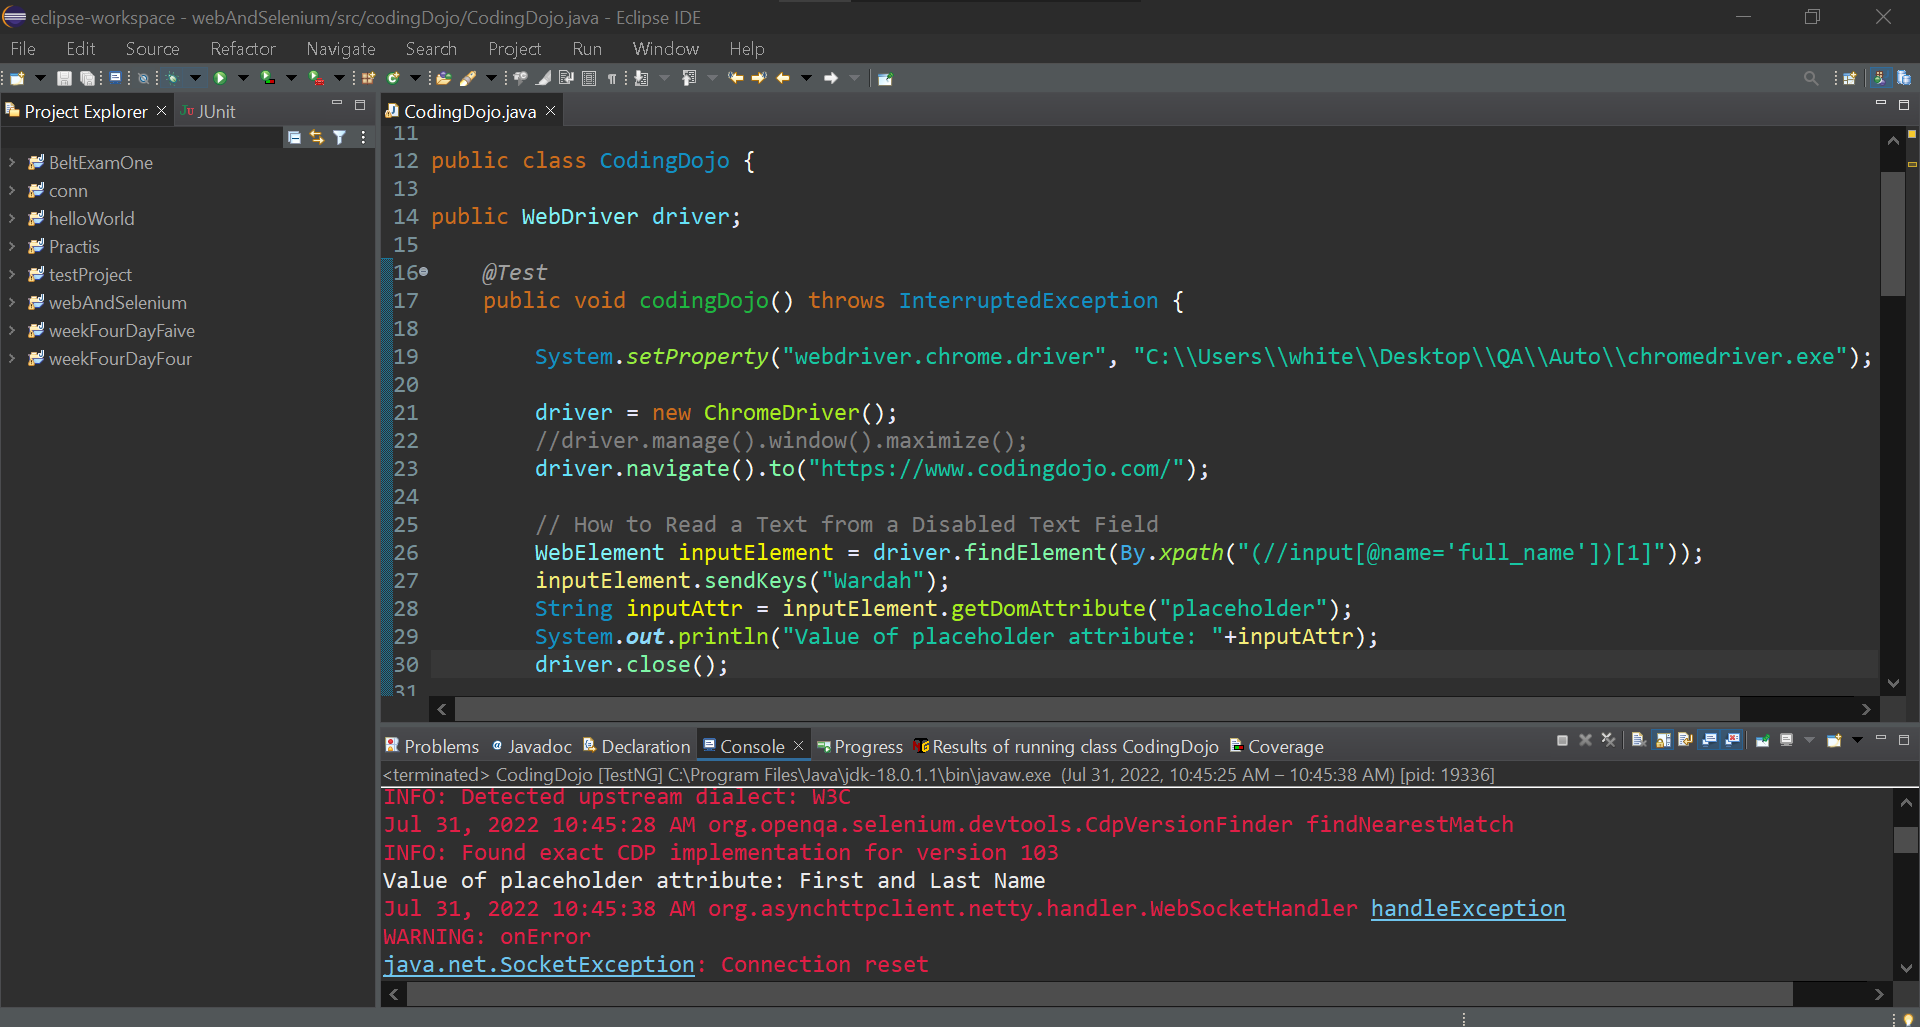
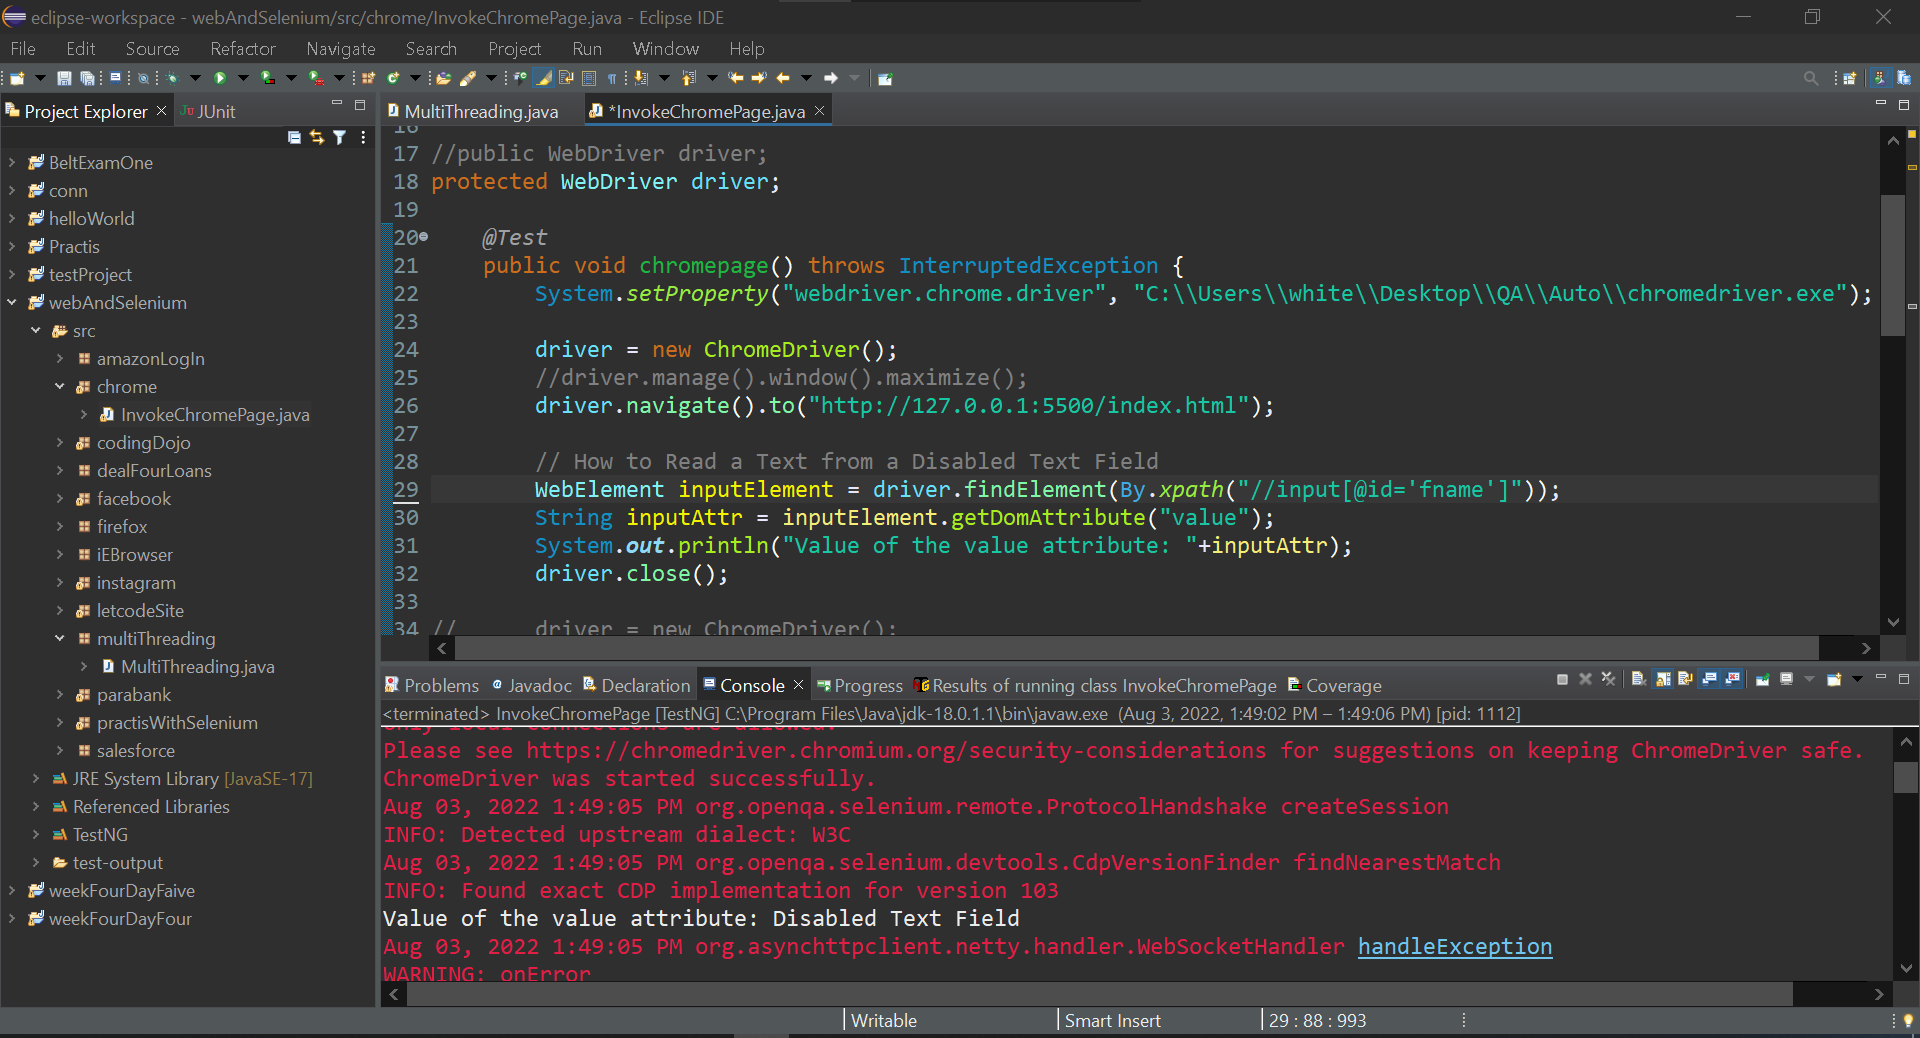
addComments

diff --git a/HowToReadTextFromDisabledTextField/README.md b/HowToReadTextFromDisabledTextField/README.md
@@ -1,6 +1,25 @@
 ### How to Read a Text from a Disabled Text Field
 
 ### Source Code
+
+### HTML File
+```HTML
+<!DOCTYPE html>
+<html>
+    <head>
+        <title>
+            Demo
+        </title>
+    </head>
+    <body>
+        <p id="demo"></p>
+        <input type="text" id="fname" value="Disabled Text Field" disabled>
+        <script src="./main.js"></script>
+    </body>
+</html>
+```
+
+### Java File
 ```Java
 package codingDojo;
 
@@ -24,14 +43,13 @@ public WebDriver driver;
 				
 		driver = new ChromeDriver();
 		//driver.manage().window().maximize();
-		driver.navigate().to("https://www.codingdojo.com/");
+		driver.navigate().to("http://127.0.0.1:5500/index.html");
 		
-		// How to Read a Text from a Text Field
-		// I can't find any disabled Text Field, So I used an enabled text field
-		WebElement inputElement = driver.findElement(By.xpath("(//input[@name='full_name'])[1]"));
-		inputElement.sendKeys("Wardah");
-		String inputAttr = inputElement.getDomAttribute("placeholder");
-		System.out.println("Value of placeholder attribute: "+inputAttr);
+		// How to Read a Text from a Disabled Text Field
+		WebElement inputElement = driver.findElement(By.xpath("//input[@id='fname']"));
+		String inputAttr = inputElement.getDomAttribute("value");
+		System.out.println("Value of the value attribute: "+inputAttr);
+		Thread.sleep(4000);
 		driver.close();
 	}
 }
